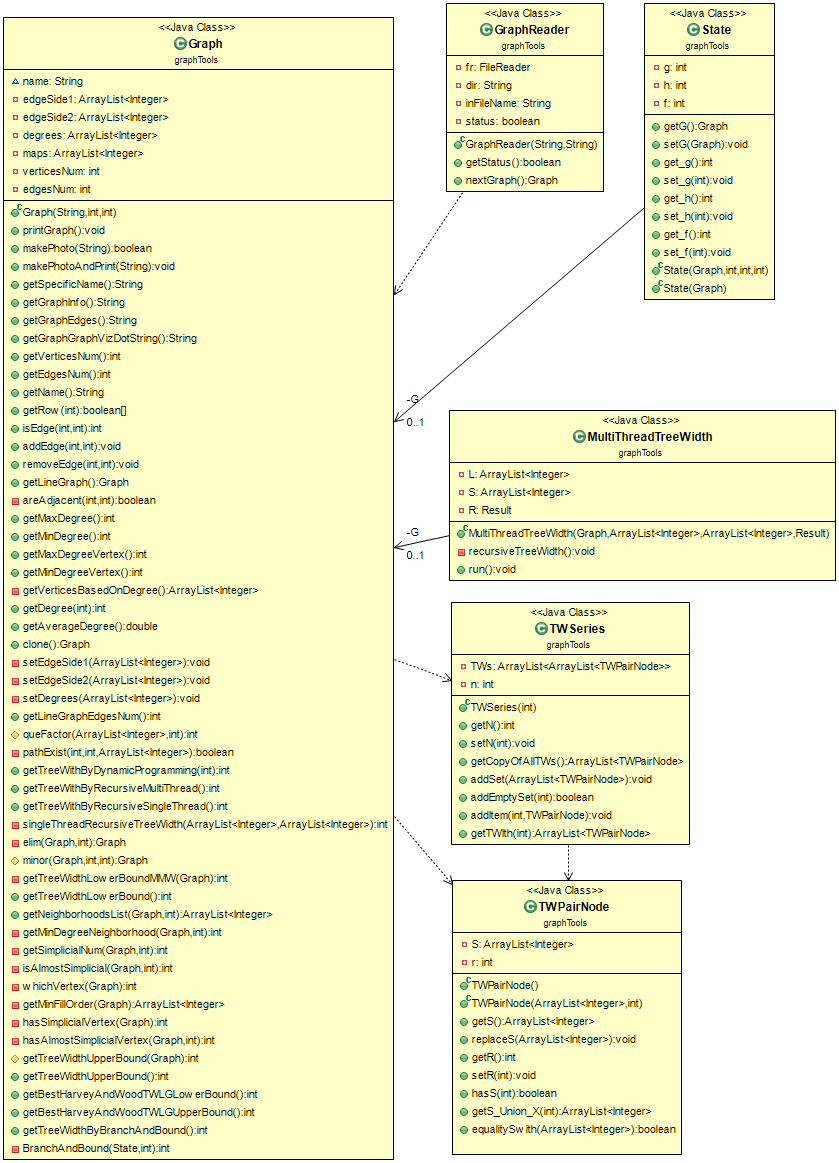
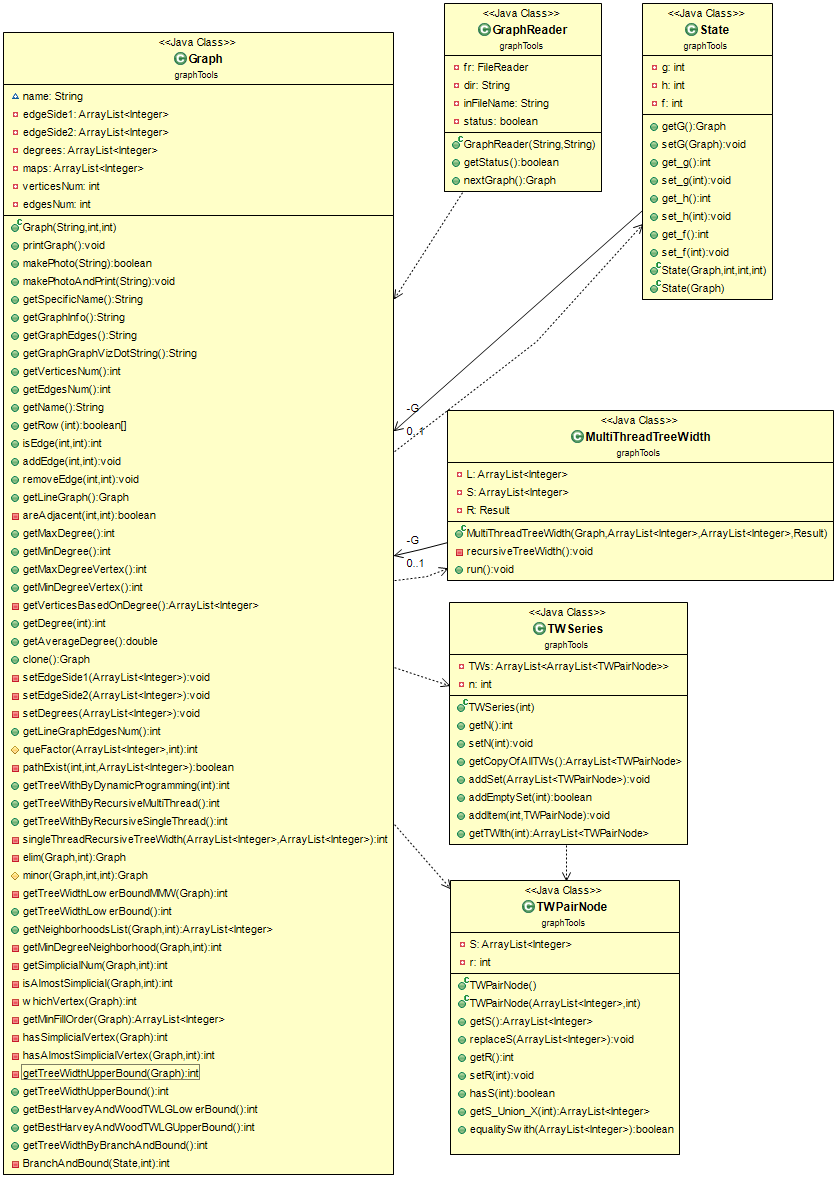
final changes for uml.

diff --git a/treewidth-of-linegraph-mjz/src/graphTools/Graph.java b/treewidth-of-linegraph-mjz/src/graphTools/Graph.java
@@ -410,7 +410,7 @@ public class Graph
 	 * returns a list of indices based on their degree ordering
 	 * @return
 	 */
-	private ArrayList<Integer> getVerticesBasedOnDegree()
+	protected ArrayList<Integer> getVerticesBasedOnDegree()
 	{
 		int[][] vertices = new int[this.getVerticesNum()][2];
 		for(int i=0;i<this.verticesNum;i++)
@@ -1160,7 +1160,7 @@ public class Graph
 	 * @return
 	 * @throws Exception
 	 */
-	protected int getTreeWidthUpperBound(Graph G) throws Exception
+	private int getTreeWidthUpperBound(Graph G) throws Exception
 	{
 		int upperBound = 0;
 		int lowerBound = G.getTreeWidthLowerBound();
